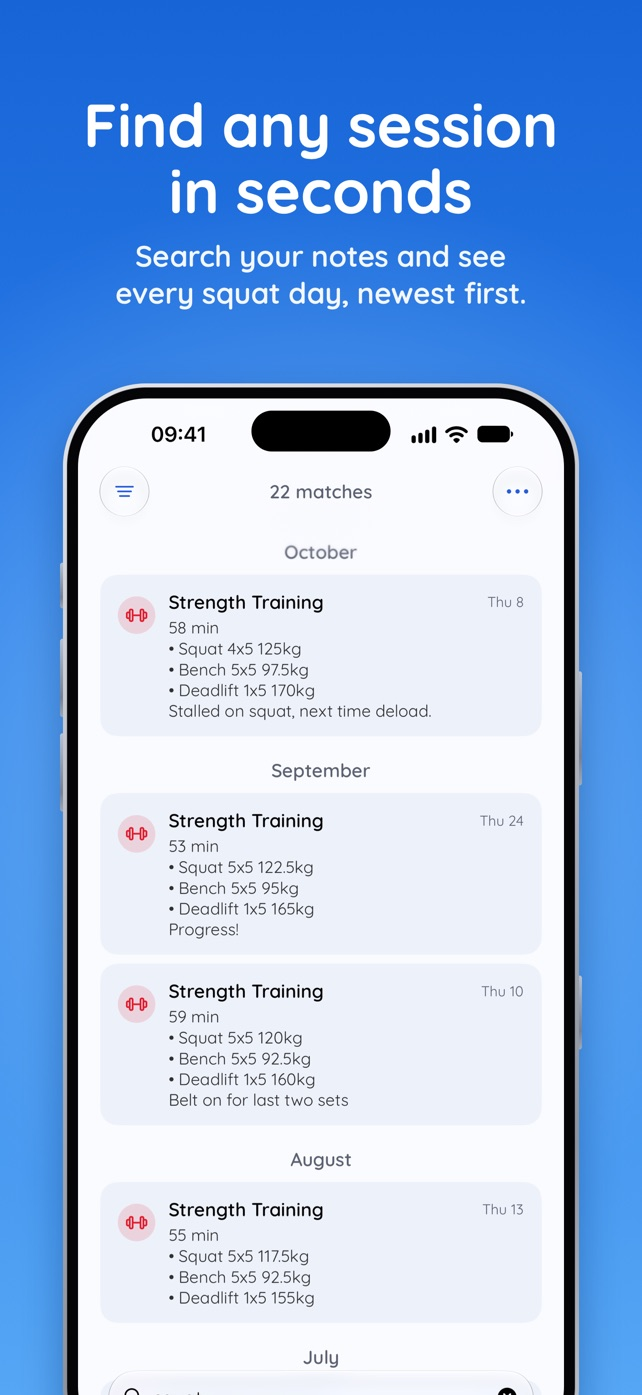
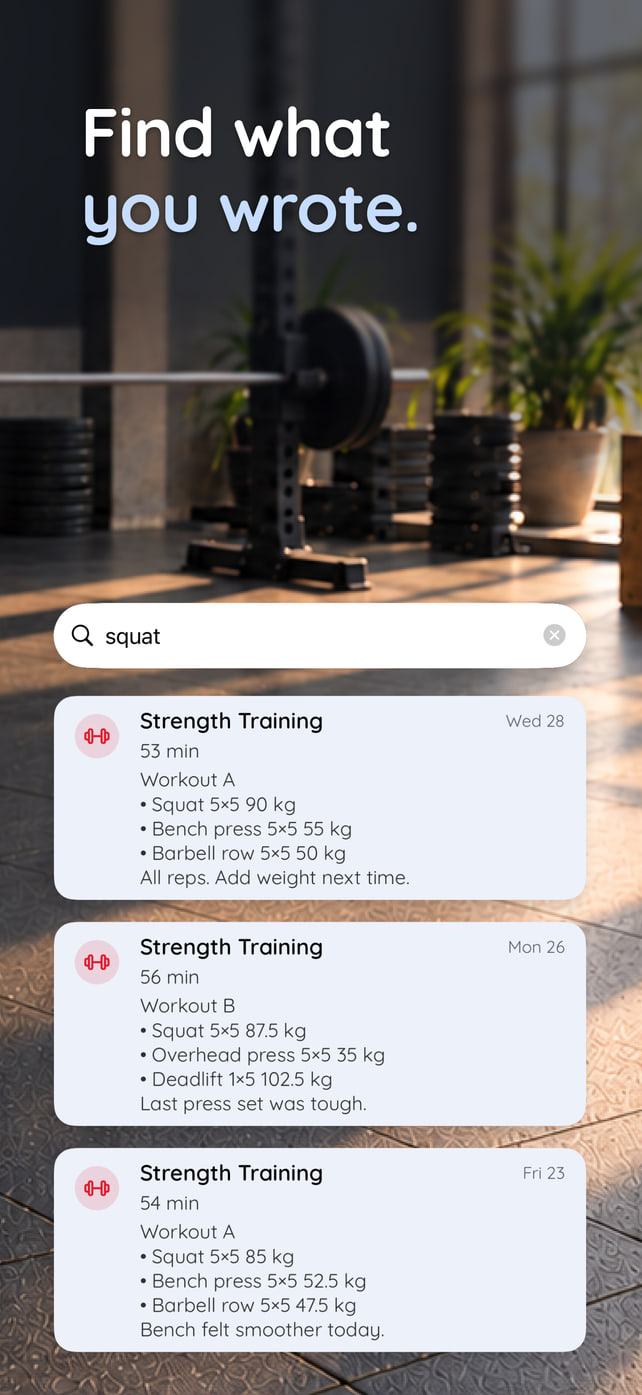
Update Stallion with the first three gym screenshots

diff --git a/stallion/ru/index.html b/stallion/ru/index.html
@@ -31,7 +31,7 @@
   <link rel="icon" href="/assets/icons/stallion.png" type="image/png" />
   <link rel="apple-touch-icon" href="/assets/icons/stallion.png" />
   <link rel="preload" href="/stallion/Nunito.ttf" as="font" type="font/ttf" crossorigin />
-  <link rel="stylesheet" href="/stallion/style.css" />
+  <link rel="stylesheet" href="/stallion/style.css?v=1.3" />
   <script src="/assets/theme.js"></script>
   <script defer src="/assets/analytics.js"></script>
 </head>
@@ -47,10 +47,9 @@
     </header>
 
     <ul class="shots">
-      <li><img src="/stallion/screenshots/journal.jpg" alt="Тренировки прямо из «Здоровья»" width="642" height="1395" /></li>
-      <li><img src="/stallion/screenshots/workout.jpg" alt="Заметка к каждой тренировке" width="642" height="1395" loading="lazy" /></li>
-      <li><img src="/stallion/screenshots/search.jpg" alt="Любая тренировка&nbsp;— за секунды" width="642" height="1395" loading="lazy" /></li>
-      <li><img src="/stallion/screenshots/calendar.jpg" alt="Все тренировки как на ладони" width="642" height="1395" loading="lazy" /></li>
+      <li><img src="/stallion/screenshots/workout-notes.jpg?v=1.3" alt="Тренировки прямо из «Здоровья»" width="642" height="1395" /></li>
+      <li><img src="/stallion/screenshots/notification.jpg?v=1.3" alt="Заметка к каждой тренировке" width="642" height="1395" loading="lazy" /></li>
+      <li><img src="/stallion/screenshots/search.jpg?v=1.3" alt="Любая тренировка&nbsp;— за секунды" width="642" height="1395" loading="lazy" /></li>
     </ul>
 
     <section>

diff --git a/stallion/ja/index.html b/stallion/ja/index.html
@@ -31,7 +31,7 @@
   <link rel="icon" href="/assets/icons/stallion.png" type="image/png" />
   <link rel="apple-touch-icon" href="/assets/icons/stallion.png" />
   <link rel="preload" href="/stallion/Quicksand.ttf" as="font" type="font/ttf" crossorigin />
-  <link rel="stylesheet" href="/stallion/style.css" />
+  <link rel="stylesheet" href="/stallion/style.css?v=1.3" />
   <script src="/assets/theme.js"></script>
   <script defer src="/assets/analytics.js"></script>
 </head>
@@ -47,10 +47,9 @@
     </header>
 
     <ul class="shots">
-      <li><img src="/stallion/screenshots/journal.jpg" alt="ヘルスケアのワークアウトをそのまま表示" width="642" height="1395" /></li>
-      <li><img src="/stallion/screenshots/workout.jpg" alt="どのワークアウトにもメモを" width="642" height="1395" loading="lazy" /></li>
-      <li><img src="/stallion/screenshots/search.jpg" alt="どのトレーニングも数秒で見つかる" width="642" height="1395" loading="lazy" /></li>
-      <li><img src="/stallion/screenshots/calendar.jpg" alt="すべてのワークアウトをひと目で" width="642" height="1395" loading="lazy" /></li>
+      <li><img src="/stallion/screenshots/workout-notes.jpg?v=1.3" alt="ヘルスケアのワークアウトをそのまま表示" width="642" height="1395" /></li>
+      <li><img src="/stallion/screenshots/notification.jpg?v=1.3" alt="どのワークアウトにもメモを" width="642" height="1395" loading="lazy" /></li>
+      <li><img src="/stallion/screenshots/search.jpg?v=1.3" alt="どのトレーニングも数秒で見つかる" width="642" height="1395" loading="lazy" /></li>
     </ul>
 
     <section>

diff --git a/stallion/es/index.html b/stallion/es/index.html
@@ -31,7 +31,7 @@
   <link rel="icon" href="/assets/icons/stallion.png" type="image/png" />
   <link rel="apple-touch-icon" href="/assets/icons/stallion.png" />
   <link rel="preload" href="/stallion/Quicksand.ttf" as="font" type="font/ttf" crossorigin />
-  <link rel="stylesheet" href="/stallion/style.css" />
+  <link rel="stylesheet" href="/stallion/style.css?v=1.3" />
   <script src="/assets/theme.js"></script>
   <script defer src="/assets/analytics.js"></script>
 </head>
@@ -47,10 +47,9 @@
     </header>
 
     <ul class="shots">
-      <li><img src="/stallion/screenshots/journal.jpg" alt="Tus entrenamientos, directamente desde Salud" width="642" height="1395" /></li>
-      <li><img src="/stallion/screenshots/workout.jpg" alt="Añade una nota a cada entrenamiento" width="642" height="1395" loading="lazy" /></li>
-      <li><img src="/stallion/screenshots/search.jpg" alt="Encuentra cualquier sesión en segundos" width="642" height="1395" loading="lazy" /></li>
-      <li><img src="/stallion/screenshots/calendar.jpg" alt="Todos tus entrenamientos de un vistazo" width="642" height="1395" loading="lazy" /></li>
+      <li><img src="/stallion/screenshots/workout-notes.jpg?v=1.3" alt="Tus entrenamientos, directamente desde Salud" width="642" height="1395" /></li>
+      <li><img src="/stallion/screenshots/notification.jpg?v=1.3" alt="Añade una nota a cada entrenamiento" width="642" height="1395" loading="lazy" /></li>
+      <li><img src="/stallion/screenshots/search.jpg?v=1.3" alt="Encuentra cualquier sesión en segundos" width="642" height="1395" loading="lazy" /></li>
     </ul>
 
     <section>

diff --git a/stallion/fr/index.html b/stallion/fr/index.html
@@ -31,7 +31,7 @@
   <link rel="icon" href="/assets/icons/stallion.png" type="image/png" />
   <link rel="apple-touch-icon" href="/assets/icons/stallion.png" />
   <link rel="preload" href="/stallion/Quicksand.ttf" as="font" type="font/ttf" crossorigin />
-  <link rel="stylesheet" href="/stallion/style.css" />
+  <link rel="stylesheet" href="/stallion/style.css?v=1.3" />
   <script src="/assets/theme.js"></script>
   <script defer src="/assets/analytics.js"></script>
 </head>
@@ -47,10 +47,9 @@
     </header>
 
     <ul class="shots">
-      <li><img src="/stallion/screenshots/journal.jpg" alt="Tes séances, directement depuis Santé" width="642" height="1395" /></li>
-      <li><img src="/stallion/screenshots/workout.jpg" alt="Une note pour chaque séance" width="642" height="1395" loading="lazy" /></li>
-      <li><img src="/stallion/screenshots/search.jpg" alt="Retrouve une séance en quelques secondes" width="642" height="1395" loading="lazy" /></li>
-      <li><img src="/stallion/screenshots/calendar.jpg" alt="Toutes tes séances d’un coup d’œil" width="642" height="1395" loading="lazy" /></li>
+      <li><img src="/stallion/screenshots/workout-notes.jpg?v=1.3" alt="Tes séances, directement depuis Santé" width="642" height="1395" /></li>
+      <li><img src="/stallion/screenshots/notification.jpg?v=1.3" alt="Une note pour chaque séance" width="642" height="1395" loading="lazy" /></li>
+      <li><img src="/stallion/screenshots/search.jpg?v=1.3" alt="Retrouve une séance en quelques secondes" width="642" height="1395" loading="lazy" /></li>
     </ul>
 
     <section>

diff --git a/stallion/nl/index.html b/stallion/nl/index.html
@@ -31,7 +31,7 @@
   <link rel="icon" href="/assets/icons/stallion.png" type="image/png" />
   <link rel="apple-touch-icon" href="/assets/icons/stallion.png" />
   <link rel="preload" href="/stallion/Quicksand.ttf" as="font" type="font/ttf" crossorigin />
-  <link rel="stylesheet" href="/stallion/style.css" />
+  <link rel="stylesheet" href="/stallion/style.css?v=1.3" />
   <script src="/assets/theme.js"></script>
   <script defer src="/assets/analytics.js"></script>
 </head>
@@ -47,10 +47,9 @@
     </header>
 
     <ul class="shots">
-      <li><img src="/stallion/screenshots/journal.jpg" alt="Je work-outs, rechtstreeks uit Gezondheid" width="642" height="1395" /></li>
-      <li><img src="/stallion/screenshots/workout.jpg" alt="Een notitie bij elke work-out" width="642" height="1395" loading="lazy" /></li>
-      <li><img src="/stallion/screenshots/search.jpg" alt="Vind elke training in een paar seconden" width="642" height="1395" loading="lazy" /></li>
-      <li><img src="/stallion/screenshots/calendar.jpg" alt="Al je work-outs in één oogopslag" width="642" height="1395" loading="lazy" /></li>
+      <li><img src="/stallion/screenshots/workout-notes.jpg?v=1.3" alt="Je work-outs, rechtstreeks uit Gezondheid" width="642" height="1395" /></li>
+      <li><img src="/stallion/screenshots/notification.jpg?v=1.3" alt="Een notitie bij elke work-out" width="642" height="1395" loading="lazy" /></li>
+      <li><img src="/stallion/screenshots/search.jpg?v=1.3" alt="Vind elke training in een paar seconden" width="642" height="1395" loading="lazy" /></li>
     </ul>
 
     <section>

diff --git a/stallion/de/index.html b/stallion/de/index.html
@@ -31,7 +31,7 @@
   <link rel="icon" href="/assets/icons/stallion.png" type="image/png" />
   <link rel="apple-touch-icon" href="/assets/icons/stallion.png" />
   <link rel="preload" href="/stallion/Quicksand.ttf" as="font" type="font/ttf" crossorigin />
-  <link rel="stylesheet" href="/stallion/style.css" />
+  <link rel="stylesheet" href="/stallion/style.css?v=1.3" />
   <script src="/assets/theme.js"></script>
   <script defer src="/assets/analytics.js"></script>
 </head>
@@ -47,10 +47,9 @@
     </header>
 
     <ul class="shots">
-      <li><img src="/stallion/screenshots/journal.jpg" alt="Deine Trainings, direkt aus Health" width="642" height="1395" /></li>
-      <li><img src="/stallion/screenshots/workout.jpg" alt="Eine Notiz zu jedem Training" width="642" height="1395" loading="lazy" /></li>
-      <li><img src="/stallion/screenshots/search.jpg" alt="Jede Einheit in Sekunden finden" width="642" height="1395" loading="lazy" /></li>
-      <li><img src="/stallion/screenshots/calendar.jpg" alt="Alle Trainings auf einen Blick" width="642" height="1395" loading="lazy" /></li>
+      <li><img src="/stallion/screenshots/workout-notes.jpg?v=1.3" alt="Deine Trainings, direkt aus Health" width="642" height="1395" /></li>
+      <li><img src="/stallion/screenshots/notification.jpg?v=1.3" alt="Eine Notiz zu jedem Training" width="642" height="1395" loading="lazy" /></li>
+      <li><img src="/stallion/screenshots/search.jpg?v=1.3" alt="Jede Einheit in Sekunden finden" width="642" height="1395" loading="lazy" /></li>
     </ul>
 
     <section>

diff --git a/stallion/zh-hans/index.html b/stallion/zh-hans/index.html
@@ -31,7 +31,7 @@
   <link rel="icon" href="/assets/icons/stallion.png" type="image/png" />
   <link rel="apple-touch-icon" href="/assets/icons/stallion.png" />
   <link rel="preload" href="/stallion/Quicksand.ttf" as="font" type="font/ttf" crossorigin />
-  <link rel="stylesheet" href="/stallion/style.css" />
+  <link rel="stylesheet" href="/stallion/style.css?v=1.3" />
   <script src="/assets/theme.js"></script>
   <script defer src="/assets/analytics.js"></script>
 </head>
@@ -47,10 +47,9 @@
     </header>
 
     <ul class="shots">
-      <li><img src="/stallion/screenshots/journal.jpg" alt="运动记录直接来自“健康”" width="642" height="1395" /></li>
-      <li><img src="/stallion/screenshots/workout.jpg" alt="每次运动都能写笔记" width="642" height="1395" loading="lazy" /></li>
-      <li><img src="/stallion/screenshots/search.jpg" alt="几秒内找到任何一次训练" width="642" height="1395" loading="lazy" /></li>
-      <li><img src="/stallion/screenshots/calendar.jpg" alt="所有运动一目了然" width="642" height="1395" loading="lazy" /></li>
+      <li><img src="/stallion/screenshots/workout-notes.jpg?v=1.3" alt="运动记录直接来自“健康”" width="642" height="1395" /></li>
+      <li><img src="/stallion/screenshots/notification.jpg?v=1.3" alt="每次运动都能写笔记" width="642" height="1395" loading="lazy" /></li>
+      <li><img src="/stallion/screenshots/search.jpg?v=1.3" alt="几秒内找到任何一次训练" width="642" height="1395" loading="lazy" /></li>
     </ul>
 
     <section>

diff --git a/stallion/zh-hant/index.html b/stallion/zh-hant/index.html
@@ -31,7 +31,7 @@
   <link rel="icon" href="/assets/icons/stallion.png" type="image/png" />
   <link rel="apple-touch-icon" href="/assets/icons/stallion.png" />
   <link rel="preload" href="/stallion/Quicksand.ttf" as="font" type="font/ttf" crossorigin />
-  <link rel="stylesheet" href="/stallion/style.css" />
+  <link rel="stylesheet" href="/stallion/style.css?v=1.3" />
   <script src="/assets/theme.js"></script>
   <script defer src="/assets/analytics.js"></script>
 </head>
@@ -47,10 +47,9 @@
     </header>
 
     <ul class="shots">
-      <li><img src="/stallion/screenshots/journal.jpg" alt="運動紀錄直接來自「健康」" width="642" height="1395" /></li>
-      <li><img src="/stallion/screenshots/workout.jpg" alt="每次運動都能寫筆記" width="642" height="1395" loading="lazy" /></li>
-      <li><img src="/stallion/screenshots/search.jpg" alt="幾秒內找到任何一次訓練" width="642" height="1395" loading="lazy" /></li>
-      <li><img src="/stallion/screenshots/calendar.jpg" alt="所有運動一目了然" width="642" height="1395" loading="lazy" /></li>
+      <li><img src="/stallion/screenshots/workout-notes.jpg?v=1.3" alt="運動紀錄直接來自「健康」" width="642" height="1395" /></li>
+      <li><img src="/stallion/screenshots/notification.jpg?v=1.3" alt="每次運動都能寫筆記" width="642" height="1395" loading="lazy" /></li>
+      <li><img src="/stallion/screenshots/search.jpg?v=1.3" alt="幾秒內找到任何一次訓練" width="642" height="1395" loading="lazy" /></li>
     </ul>
 
     <section>

diff --git a/stallion/index.html b/stallion/index.html
@@ -31,7 +31,7 @@
   <link rel="icon" href="/assets/icons/stallion.png" type="image/png" />
   <link rel="apple-touch-icon" href="/assets/icons/stallion.png" />
   <link rel="preload" href="/stallion/Quicksand.ttf" as="font" type="font/ttf" crossorigin />
-  <link rel="stylesheet" href="/stallion/style.css" />
+  <link rel="stylesheet" href="/stallion/style.css?v=1.3" />
   <script src="/assets/theme.js"></script>
   <script defer src="/assets/analytics.js"></script>
 </head>
@@ -47,10 +47,9 @@
     </header>
 
     <ul class="shots">
-      <li><img src="/stallion/screenshots/journal.jpg" alt="Your workouts, straight from Apple Health" width="642" height="1395" /></li>
-      <li><img src="/stallion/screenshots/workout.jpg" alt="Add a note to every workout" width="642" height="1395" loading="lazy" /></li>
-      <li><img src="/stallion/screenshots/search.jpg" alt="Find any session in seconds" width="642" height="1395" loading="lazy" /></li>
-      <li><img src="/stallion/screenshots/calendar.jpg" alt="Every workout at a glance" width="642" height="1395" loading="lazy" /></li>
+      <li><img src="/stallion/screenshots/workout-notes.jpg?v=1.3" alt="Your workouts, straight from Apple Health" width="642" height="1395" /></li>
+      <li><img src="/stallion/screenshots/notification.jpg?v=1.3" alt="Add a note to every workout" width="642" height="1395" loading="lazy" /></li>
+      <li><img src="/stallion/screenshots/search.jpg?v=1.3" alt="Find any session in seconds" width="642" height="1395" loading="lazy" /></li>
     </ul>
 
     <section>

diff --git a/stallion/ko/index.html b/stallion/ko/index.html
@@ -31,7 +31,7 @@
   <link rel="icon" href="/assets/icons/stallion.png" type="image/png" />
   <link rel="apple-touch-icon" href="/assets/icons/stallion.png" />
   <link rel="preload" href="/stallion/Quicksand.ttf" as="font" type="font/ttf" crossorigin />
-  <link rel="stylesheet" href="/stallion/style.css" />
+  <link rel="stylesheet" href="/stallion/style.css?v=1.3" />
   <script src="/assets/theme.js"></script>
   <script defer src="/assets/analytics.js"></script>
 </head>
@@ -47,10 +47,9 @@
     </header>
 
     <ul class="shots">
-      <li><img src="/stallion/screenshots/journal.jpg" alt="건강 앱의 운동을 그대로" width="642" height="1395" /></li>
-      <li><img src="/stallion/screenshots/workout.jpg" alt="모든 운동에 메모를" width="642" height="1395" loading="lazy" /></li>
-      <li><img src="/stallion/screenshots/search.jpg" alt="어떤 운동이든 몇 초 만에" width="642" height="1395" loading="lazy" /></li>
-      <li><img src="/stallion/screenshots/calendar.jpg" alt="모든 운동을 한눈에" width="642" height="1395" loading="lazy" /></li>
+      <li><img src="/stallion/screenshots/workout-notes.jpg?v=1.3" alt="건강 앱의 운동을 그대로" width="642" height="1395" /></li>
+      <li><img src="/stallion/screenshots/notification.jpg?v=1.3" alt="모든 운동에 메모를" width="642" height="1395" loading="lazy" /></li>
+      <li><img src="/stallion/screenshots/search.jpg?v=1.3" alt="어떤 운동이든 몇 초 만에" width="642" height="1395" loading="lazy" /></li>
     </ul>
 
     <section>

diff --git a/stallion/style.css b/stallion/style.css
@@ -35,8 +35,10 @@ a { color: var(--accent); }
 .store .apple { width: 1.05em; height: 1.05em; fill: currentColor; translate: 0 -0.08em; }
 .store:focus-visible { outline: 2px solid var(--accent); outline-offset: 3px; }
 .intro { margin-top: 18px; font-weight: var(--semibold); }
-/* The Store screenshots: one row, wider than the text on a wide window, swiped through on a narrow one. */
-.shots { display: grid; grid-auto-flow: column; grid-auto-columns: min(62%, 240px); gap: 14px; margin: 0 -16px 28px; padding: 0 16px; list-style: none; overflow-x: auto; scroll-snap-type: x mandatory; scroll-padding: 0 16px; scrollbar-width: none; }
+/* The Store panorama stays joined in a row, with horizontal scrolling on narrow screens. */
+.shots { display: grid; grid-auto-flow: column; grid-auto-columns: min(62%, 240px); gap: 0; margin: 0 -16px 28px; padding: 0 16px; list-style: none; overflow-x: auto; scroll-snap-type: x mandatory; scroll-padding: 0 16px; scrollbar-width: none; }
 .shots li { margin: 0; scroll-snap-align: start; }
-.shots img { display: block; width: 100%; height: auto; border-radius: 16px; }
+.shots img { display: block; width: 100%; height: auto; }
+.shots li:first-child img { border-radius: 16px 0 0 16px; }
+.shots li:last-child img { border-radius: 0 16px 16px 0; }
 @media (min-width: 960px) { .shots { grid-auto-columns: 1fr; margin: 0 -136px 32px; padding: 0; overflow: visible; } }
